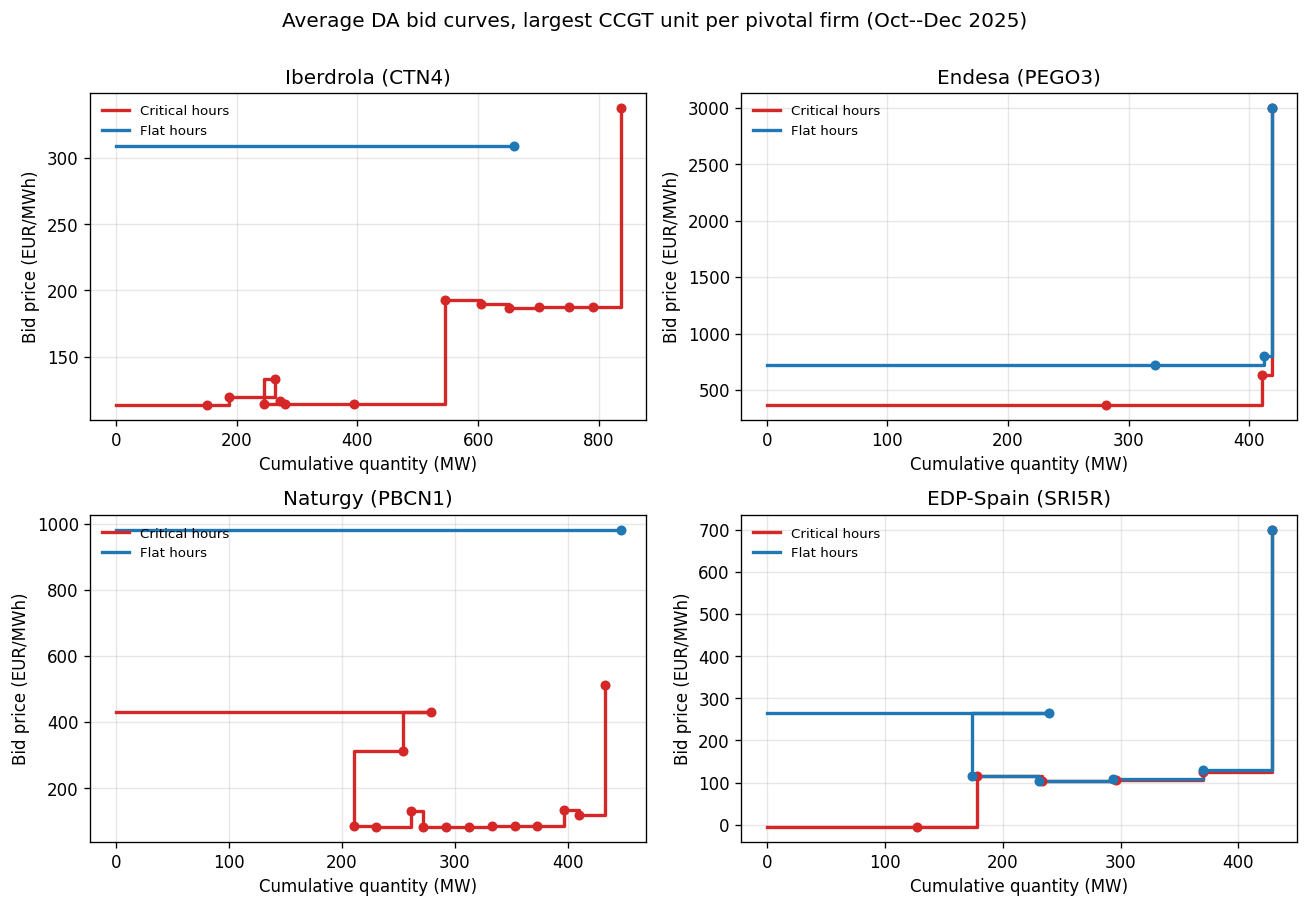
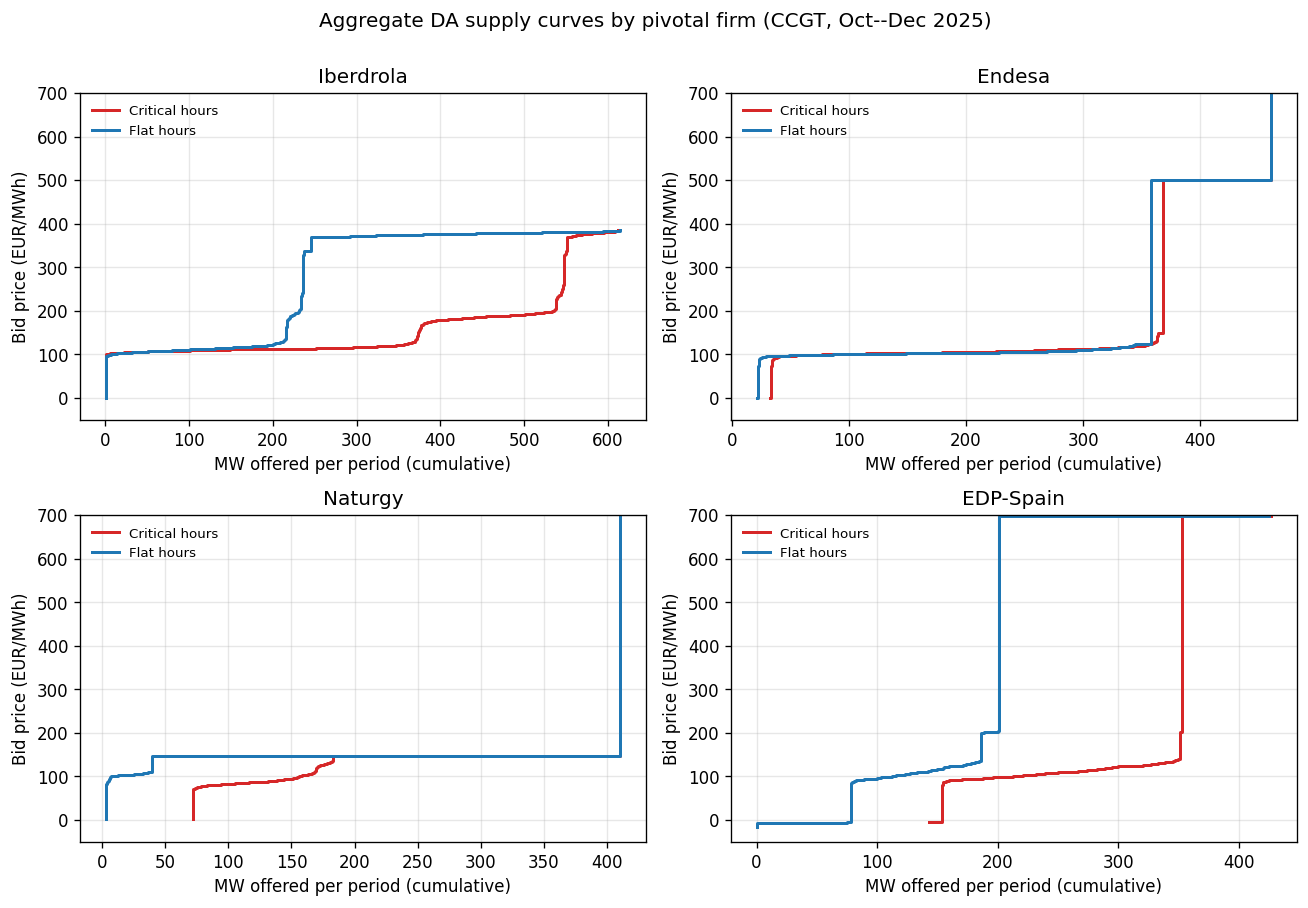
Fig 4: replace ad-hoc averaging with EUPHEMIA aggregate-supply-curve
The user pointed out the right approach: instead of averaging across
units (which mixes heterogeneous cost structures) or showing one
representative unit's ladder (loses the firm-level picture), use OMIE
Euphemia's actual aggregation methodology (public description §7.1,
p.43-44): pool all sell-side tranches in the (firm × hour-class), sort
by ascending price, cumulate quantities. Then normalise by N cells
(= unique date×unit×period rows) so the y-axis reads "MW offered per
period at bid price <= p".

Result: clean step functions per firm × hour-class. Headline patterns
are now visible at a glance:

  - Iberdrola: critical curve flatter and longer; ~530 MW at 110 EUR
    in critical vs ~210 MW in flat. Strategic withholding in flat
    hours (capacity parked above 350 EUR that does not clear).
  - Endesa: critical and flat curves essentially overlap. No within-
    day differentiation.
  - Naturgy: critical curve sits below flat across the relevant range.
  - EDP-Spain: critical reaches further at lower prices; flat caps
    earlier with a 200 EUR step.

Implementation tightens the build with a 1 EUR/MWh price bin so the
plot is fast (was 1.5M tranches per firm-hour-class).

Reading verdict stays supportive; the caption now cites the EUPHEMIA
methodology directly.

diff --git a/scripts/analysis/bid/per_firm_bid_curves.py b/scripts/analysis/bid/per_firm_bid_curves.py
@@ -89,60 +89,55 @@ def load_tranches():
     return df
 
 
-def representative_unit_per_firm(df):
-    """Pick the CCGT unit with the most tranche rows per firm (proxy for
-    largest / most active). Returns dict firm -> unit_code."""
-    counts = df.groupby(["firm", "unit_code"]).size().reset_index(name="n")
-    rep = counts.sort_values(["firm", "n"], ascending=[True, False]).groupby("firm").first()
-    return rep["unit_code"].to_dict()
+def build_aggregate_supply_curves(df):
+    """OMIE / EUPHEMIA aggregation: pool all sell tranches by (firm,
+    hour-class), sort ascending by price, cumulate quantities. Normalise
+    by the number of (date, unit, period) cells so the y-axis reads as
+    "average MW offered per period at bid price <= p."
 
-
-def build_bid_curves(df):
-    """Average ladder for the representative CCGT of each firm. Holding
-    the unit constant means cost structure is constant within each panel,
-    so the average over days is a meaningful 'typical bid'."""
+    Public-description of EUPHEMIA, sec. 7.1 (p.43-44): supply tranches
+    are pooled, sorted by ascending price, and inverse functions added
+    pointwise. For pure step orders this is equivalent to sorting (price,
+    quantity) pairs by price and cumulating quantities. We restrict to
+    CCGT here to match the rest of section 4.2.
+    """
     df = df[df["hour_class"].isin(["critical", "flat"])].copy()
-    rep = representative_unit_per_firm(df)
-    df = df[df.apply(lambda r: r["unit_code"] == rep.get(r["firm"]), axis=1)].copy()
-    df = df.sort_values(["d", "unit_code", "period", "price"])
-    df["rank"] = df.groupby(["d", "unit_code", "period"]).cumcount() + 1
-    df["cum_qty"] = df.groupby(["d", "unit_code", "period"])["qty"].cumsum()
-    avg = (
-        df.groupby(["firm", "unit_code", "hour_class", "rank"], as_index=False)
-        .agg(price=("price", "mean"),
-             cum_qty=("cum_qty", "mean"),
-             qty=("qty", "mean"),
-             n_cells=("d", "count"))
-    )
-    # Only keep ranks present in at least 30% of cells (so we don't show
-    # the long tail of rare-large-ladder days)
-    n_rank1 = avg[avg["rank"] == 1].set_index(["firm", "hour_class"])["n_cells"]
-    avg = avg.merge(n_rank1.rename("n_rank1"), on=["firm", "hour_class"])
-    avg = avg[avg["n_cells"] >= 0.30 * avg["n_rank1"]]
-    return avg, rep
+    out = []
+    for (firm, hc), g in df.groupby(["firm", "hour_class"]):
+        n_cells = g.groupby(["d", "unit_code", "period"]).ngroups
+        # Bin to 1 EUR/MWh price grid to keep the curve plottable
+        g_binned = (
+            g.assign(price_bin=g["price"].round(0))
+            .groupby("price_bin", as_index=False)["qty"].sum()
+            .rename(columns={"price_bin": "price"})
+            .sort_values("price")
+        )
+        g_binned["cum_qty_per_period"] = g_binned["qty"].cumsum() / n_cells
+        g_binned["firm"] = firm
+        g_binned["hour_class"] = hc
+        g_binned["n_cells"] = n_cells
+        out.append(g_binned)
+    return pd.concat(out, ignore_index=True)
 
 
-def plot_bid_curves(avg, rep):
+def plot_bid_curves(curves):
     fig, axes = plt.subplots(2, 2, figsize=(11, 7.5), sharex=False, sharey=False)
     firms_to_plot = ["IB", "GE", "GN", "HC"]
     for ax, firm in zip(axes.flatten(), firms_to_plot):
-        unit = rep.get(firm, "?")
         for hc, color in [("critical", "C3"), ("flat", "C0")]:
-            sub = avg[(avg["firm"] == firm) & (avg["hour_class"] == hc)].sort_values("rank")
+            sub = curves[(curves["firm"] == firm) & (curves["hour_class"] == hc)].sort_values("price")
             if len(sub) == 0:
                 continue
-            # Prepend a starting point at cum_qty=0 so the step starts visible
-            x = np.concatenate(([0.0], sub["cum_qty"].values))
-            y = np.concatenate(([sub["price"].iloc[0]], sub["price"].values))
-            ax.step(x, y, where="post", color=color, linewidth=2.0,
+            ax.step(sub["cum_qty_per_period"], sub["price"], where="post",
+                    color=color, linewidth=1.8,
                     label=("Critical hours" if hc == "critical" else "Flat hours"))
-            ax.scatter(sub["cum_qty"], sub["price"], color=color, s=25, zorder=3)
-        ax.set_title(f"{FIRM_DISPLAY.get(firm, firm)} ({unit})")
-        ax.set_xlabel("Cumulative quantity (MW)")
+        ax.set_title(FIRM_DISPLAY.get(firm, firm))
+        ax.set_xlabel("MW offered per period (cumulative)")
         ax.set_ylabel("Bid price (EUR/MWh)")
         ax.grid(alpha=0.3)
+        ax.set_ylim(-50, 700)  # focus on relevant clearing range
         ax.legend(fontsize=8, frameon=False, loc="upper left")
-    fig.suptitle("Average DA bid curves, largest CCGT unit per pivotal firm (Oct--Dec 2025)",
+    fig.suptitle(r"Aggregate DA supply curves by pivotal firm (CCGT, Oct--Dec 2025)",
                  fontsize=12, y=1.00)
     fig.tight_layout()
     for ext in ("pdf", "png"):
@@ -150,7 +145,6 @@ def plot_bid_curves(avg, rep):
         fig.savefig(out, bbox_inches="tight", dpi=120 if ext == "png" else None)
     plt.close(fig)
     print(f"saved {FIGDIR / 'fig_per_firm_bid_curves.pdf'}")
-    print("  representative units:", rep)
 
 
 def build_table(df):
@@ -229,9 +223,9 @@ def main():
     df = load_tranches()
     print(f"  {len(df):,} tranche rows across {df['firm'].nunique()} firms")
 
-    print("building average ladders...")
-    avg, rep = build_bid_curves(df)
-    plot_bid_curves(avg, rep)
+    print("building aggregate supply curves (OMIE methodology)...")
+    curves = build_aggregate_supply_curves(df)
+    plot_bid_curves(curves)
 
     print("building bid-shape detail table...")
     agg = build_table(df)

diff --git a/thesis/paper/paper.tex b/thesis/paper/paper.tex
@@ -240,11 +240,11 @@ TotalEnergies          & 0.000 & 0.000 & 0.000 \\
 \begin{figure}[H]
 \centering
 \includegraphics[width=0.95\textwidth]{figures/fig_per_firm_bid_curves.pdf}
-\caption{\textbf{Average DA bid curves of the largest CCGT unit per pivotal firm, October--December 2025.} Step functions show the average price-quantity ladder of a single representative CCGT unit per firm (cost structure constant within each panel). Red: critical hours; blue: flat hours.}
+\caption{\textbf{Aggregate DA supply curves by pivotal firm, CCGT, October--December 2025.} Constructed per the EUPHEMIA aggregation rule (public description, sec. 7.1): all sell-side tranches from a firm's CCGT units within an hour class are pooled, sorted by ascending price, and cumulated. The cumulative quantity is normalised by the number of (date, unit, period) cells to read as MW offered per period at bid price $\le p$. Red: critical hours; blue: flat hours.}
 \label{fig:per_firm_bid_curves}
 \end{figure}
 
-\textit{Reading} (\textbf{supportive}). The critical-hour ladders are richer and reach into the relevant clearing range for Iberdrola, Naturgy and EDP-Spain (steps from $\sim$80--340~EUR/MWh). Flat-hour ladders are either a single step or sit at much higher prices. Endesa's representative unit submits a single near-constant price across both hour classes --- a quantity-bidder strategy that does not exploit within-hour granularity.
+\textit{Reading} (\textbf{supportive}). Iberdrola, Naturgy and EDP-Spain offer substantially more CCGT capacity at low prices in critical hours than in flat hours: at $\sim$110 EUR/MWh Iberdrola's critical supply reaches $\sim$530~MW versus $\sim$210~MW flat; Naturgy and EDP-Spain show the same pattern at smaller scale. Endesa's curves overlap across hour classes --- it is the firm that does not differentiate its bid by within-day strategic state.
 
 \begin{table}[H]
 \centering